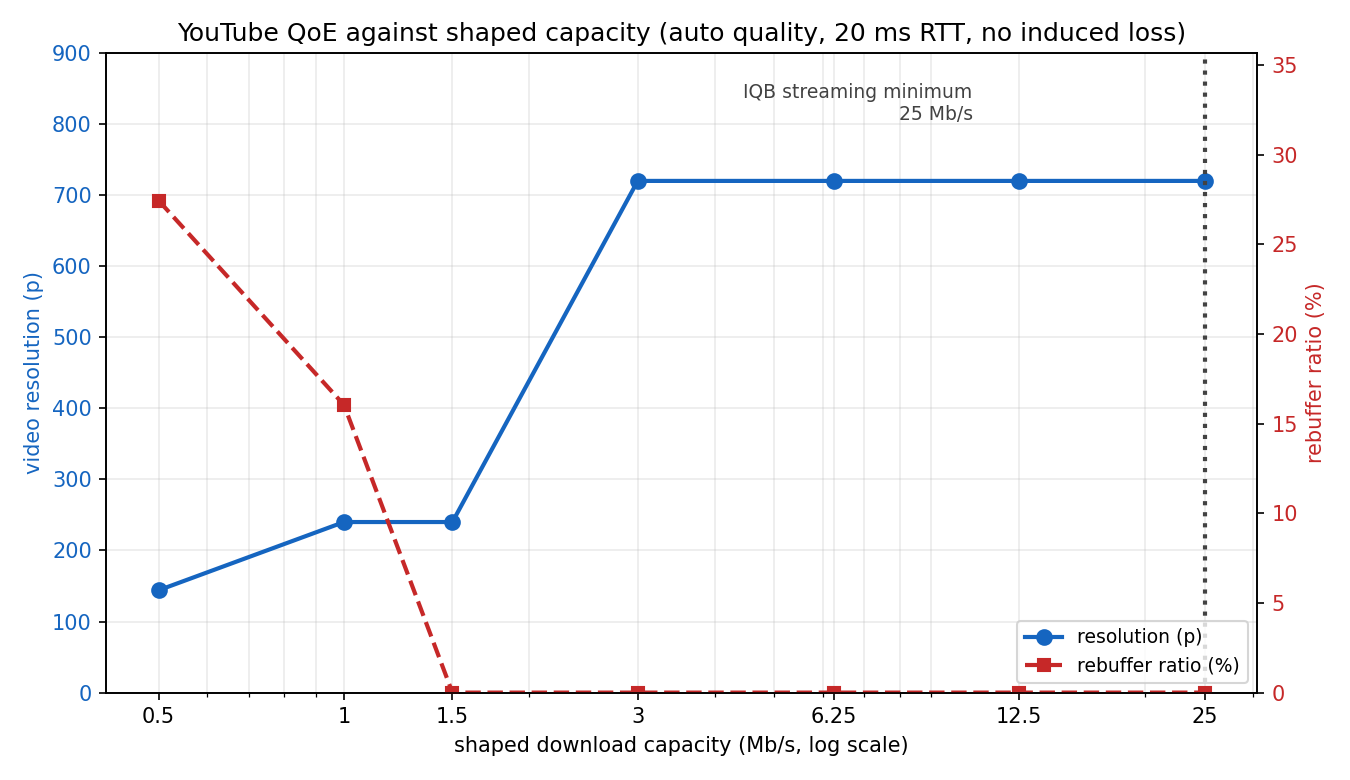
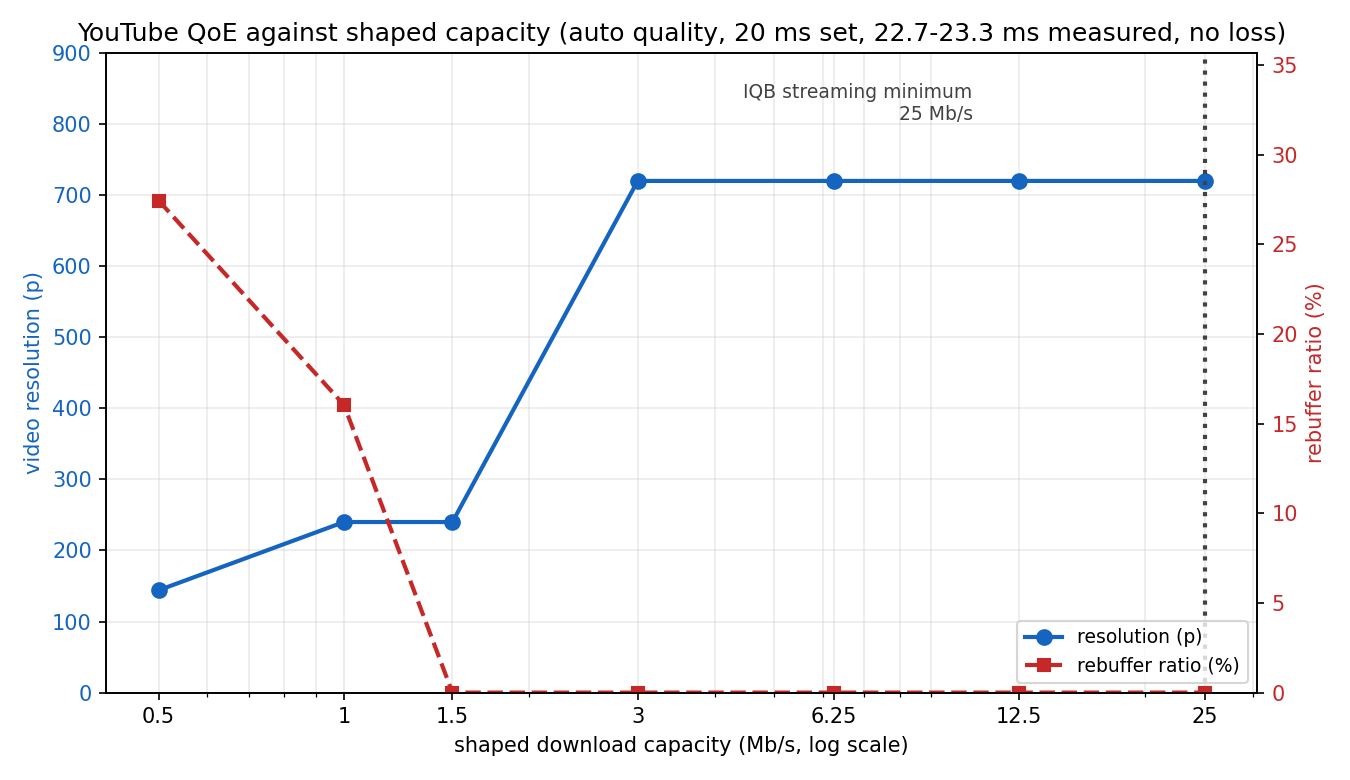
cpuc: report the configured AND the measured RTT, everywhere
Jaber asked for both latencies in every table and on the charts wherever
latency appears, so each table now carries "RTT set" (what the shaper was
told) beside "RTT measured" (ndt_minrtt, what the speed test saw on the
same link), and the chart titles carry the pair rather than the setpoint
alone.

They are not the same number and the difference is the point: 20 ms set
reads 22.6-23.3 ms measured, because netem adds its delay on top of the
real path to the M-Lab server. A chart captioned "20 ms" alone states the
shaper configuration; the measured value is the one a reader can check.

Everything collected so far is at 20 ms, which is IQB s conferencing HIGH
value and below BOTH of IQB s streaming values (100 ms minimum, 50 ms
high). The 50 and 100 ms sweeps are next.

Both reports now key the table by (capacity, configured RTT) rather than
capacity alone. That was safe only while every run was 20 ms: appending a
second latency to the same CSV would otherwise let a 50 ms row silently
overwrite the 20 ms row at the same capacity, and the table would mix two
regimes without saying so. This is a prerequisite for the latency sweeps
landing in these same files.

Changed region(s): [[0.0622, 0.0308, 0.9644, 0.0615]]

diff --git a/experiments/cpuc/report.py b/experiments/cpuc/report.py
@@ -120,7 +120,11 @@ def build_table(rows):
     """Join the app row and the NDT row for each bandwidth point."""
     apps, ndts = {}, {}
     for r in rows:
-        key = _f(r.get("rate_down"))
+        # Keyed by (capacity, configured RTT). Keying on capacity alone was
+        # safe only while every run was 20 ms; once a second latency is
+        # appended to the same CSV, a 50 ms row would silently overwrite the
+        # 20 ms row at the same capacity and the table would mix regimes.
+        key = (_f(r.get("rate_down")), _f(r.get("rtt")))
         if r.get("run_type") == "app":
             # keep the last valid attempt per point
             if r.get("valid") in ("True", "true", "1") or key not in apps:
@@ -129,14 +133,16 @@ def build_table(rows):
             if r.get("valid") in ("True", "true", "1") or key not in ndts:
                 ndts[key] = r
     out = []
-    for rate in sorted(set(apps) | set(ndts), reverse=True):
-        a, n = apps.get(rate, {}), ndts.get(rate, {})
+    for key in sorted(set(apps) | set(ndts), key=lambda k: (k[1] or 0, -(k[0] or 0))):
+        rate, rtt_cfg = key
+        a, n = apps.get(key, {}), ndts.get(key, {})
         dl, ul = _f(n.get("ndt_down")), _f(n.get("ndt_up"))
         lat = _f(n.get("ndt_minrtt"))
         verdict, which = iqb_verdict(dl, ul, lat)
         out.append(
             {
                 "rate_down_mbps": rate,
+                "rtt_configured_ms": rtt_cfg,
                 "is_reference": a.get("is_reference") in ("True", "true", "1"),
                 "ndt_down_mbps": dl,
                 "ndt_up_mbps": ul,
@@ -170,21 +176,53 @@ def build_table(rows):
     return out
 
 
+def latency_caption(table) -> str:
+    """ "20 ms set, 22.6-23.3 ms measured" -- both numbers, from the data.
+
+    Jaber asked for the configured and the measured RTT together wherever
+    latency appears. A chart title that says only "20 ms" is a statement
+    about the shaper; what the speed test saw on the same link is the one a
+    reader can check, and the two are not equal (netem adds its delay on top
+    of the real path).
+    """
+    cfg = sorted({r["rtt_configured_ms"] for r in table if r.get("rtt_configured_ms")})
+    meas = [r["ndt_minrtt_ms"] for r in table if r.get("ndt_minrtt_ms")]
+    if not cfg:
+        return "no induced loss"
+    setpart = ", ".join(f"{c:g}" for c in cfg) + " ms set"
+    if not meas:
+        return f"{setpart}, no loss"
+    lo, hi = min(meas), max(meas)
+    span = f"{lo:.1f} ms" if abs(hi - lo) < 0.05 else f"{lo:.1f}-{hi:.1f} ms"
+    return f"{setpart}, {span} measured, no loss"
+
+
 def markdown_table(table):
     hdr = (
-        "| down Mb/s | NDT down | IQB (download) | IQB (all legs) | "
-        "source offers | resolution chosen | rebuffers | startup | QoE |\n"
-        "|---|---|---|---|---|---|---|---|---|\n"
+        "| down Mb/s | RTT set | RTT measured | NDT down | IQB (download) "
+        "| IQB (all legs) | source offers | resolution chosen | rebuffers "
+        "| startup | QoE |\n"
+        "|---|---|---|---|---|---|---|---|---|---|---|\n"
     )
     lines = []
     for t in table:
         tag = " *(ref)*" if t["is_reference"] else ""
         sus = " ⚠" if t["suspect"] else ""
         lines.append(
-            "| {r:g}{tag} | {dl} | {vd} | {v} ({by}) | {src} | {res} | {reb} | "
-            "{su} | {q}{sus} |".format(
+            "| {r:g}{tag} | {rset} | {rmeas} | {dl} | {vd} | {v} ({by}) "
+            "| {src} | {res} | {reb} | {su} | {q}{sus} |".format(
                 r=t["rate_down_mbps"],
                 tag=tag,
+                rset=(
+                    f"{t['rtt_configured_ms']:g} ms"
+                    if t.get("rtt_configured_ms") is not None
+                    else "—"
+                ),
+                rmeas=(
+                    f"{t['ndt_minrtt_ms']:.1f} ms"
+                    if t.get("ndt_minrtt_ms") is not None
+                    else "—"
+                ),
                 dl=(
                     f"{t['ndt_down_mbps']:.2f}"
                     if t["ndt_down_mbps"] is not None
@@ -325,7 +363,7 @@ def plot(table, path):
     h2, l2 = ax2.get_legend_handles_labels()
     ax1.legend(h1 + h2, l1 + l2, loc="lower right", fontsize=9)
     ax1.set_title(
-        "YouTube QoE against shaped capacity (auto quality, 20 ms RTT, no induced loss)"
+        f"YouTube QoE against shaped capacity (auto quality, {latency_caption(table)})"
     )
     fig.tight_layout()
     fig.savefig(path, dpi=150)
@@ -365,7 +403,7 @@ def main() -> int:
             DL_MIN,
             "rate_down_mbps",
             "iqb_verdict_download_only",
-            "IQB's verdict against measured YouTube QoE (20 ms RTT, no loss)",
+            f"IQB's verdict against measured YouTube QoE ({latency_caption(table)})",
         )
     )
     made.append(

diff --git a/experiments/cpuc/results/iqb_vs_qoe_table.md b/experiments/cpuc/results/iqb_vs_qoe_table.md
@@ -1,10 +1,10 @@
-| down Mb/s | NDT down | IQB (download) | IQB (all legs) | source offers | resolution chosen | rebuffers | startup | QoE |
-|---|---|---|---|---|---|---|---|---|
-| 100 *(ref)* | 91.28 | meets high | fails minimum (upload) | up to 2160p | 720p | 0 | 2.49 s | deferred |
-| 25 | 23.21 | fails minimum | fails minimum (download) | up to 2160p | 720p | 0 | 3.01 s | high |
-| 12.5 | 11.71 | fails minimum | fails minimum (download) | up to 2160p | 720p | 0 | 2.24 s | high ⚠ |
-| 6.25 | 5.84 | fails minimum | fails minimum (download) | up to 2160p | 720p | 0 | 4.07 s | high ⚠ |
-| 3 | 2.85 | fails minimum | fails minimum (download) | up to 2160p | 720p | 0 | 7.60 s | acceptable ⚠ |
-| 1.5 | 1.43 | fails minimum | fails minimum (download) | up to 2160p | 240p | 0 | 14.00 s | unusable ⚠ |
-| 1 | 0.96 | fails minimum | fails minimum (download) | up to 2160p | 240p | 1 | 21.47 s | unusable ⚠ |
-| 0.5 | 0.48 | fails minimum | fails minimum (download) | up to 2160p | 144p | 1 | 38.90 s | unusable ⚠ |
+| down Mb/s | RTT set | RTT measured | NDT down | IQB (download) | IQB (all legs) | source offers | resolution chosen | rebuffers | startup | QoE |
+|---|---|---|---|---|---|---|---|---|---|---|
+| 100 *(ref)* | 20 ms | 22.7 ms | 91.28 | meets high | fails minimum (upload) | up to 2160p | 720p | 0 | 2.49 s | deferred |
+| 25 | 20 ms | 22.8 ms | 23.21 | fails minimum | fails minimum (download) | up to 2160p | 720p | 0 | 3.01 s | high |
+| 12.5 | 20 ms | 22.7 ms | 11.71 | fails minimum | fails minimum (download) | up to 2160p | 720p | 0 | 2.24 s | high ⚠ |
+| 6.25 | 20 ms | 23.2 ms | 5.84 | fails minimum | fails minimum (download) | up to 2160p | 720p | 0 | 4.07 s | high ⚠ |
+| 3 | 20 ms | 23.1 ms | 2.85 | fails minimum | fails minimum (download) | up to 2160p | 720p | 0 | 7.60 s | acceptable ⚠ |
+| 1.5 | 20 ms | 23.3 ms | 1.43 | fails minimum | fails minimum (download) | up to 2160p | 240p | 0 | 14.00 s | unusable ⚠ |
+| 1 | 20 ms | 22.9 ms | 0.96 | fails minimum | fails minimum (download) | up to 2160p | 240p | 1 | 21.47 s | unusable ⚠ |
+| 0.5 | 20 ms | 22.9 ms | 0.48 | fails minimum | fails minimum (download) | up to 2160p | 144p | 1 | 38.90 s | unusable ⚠ |
